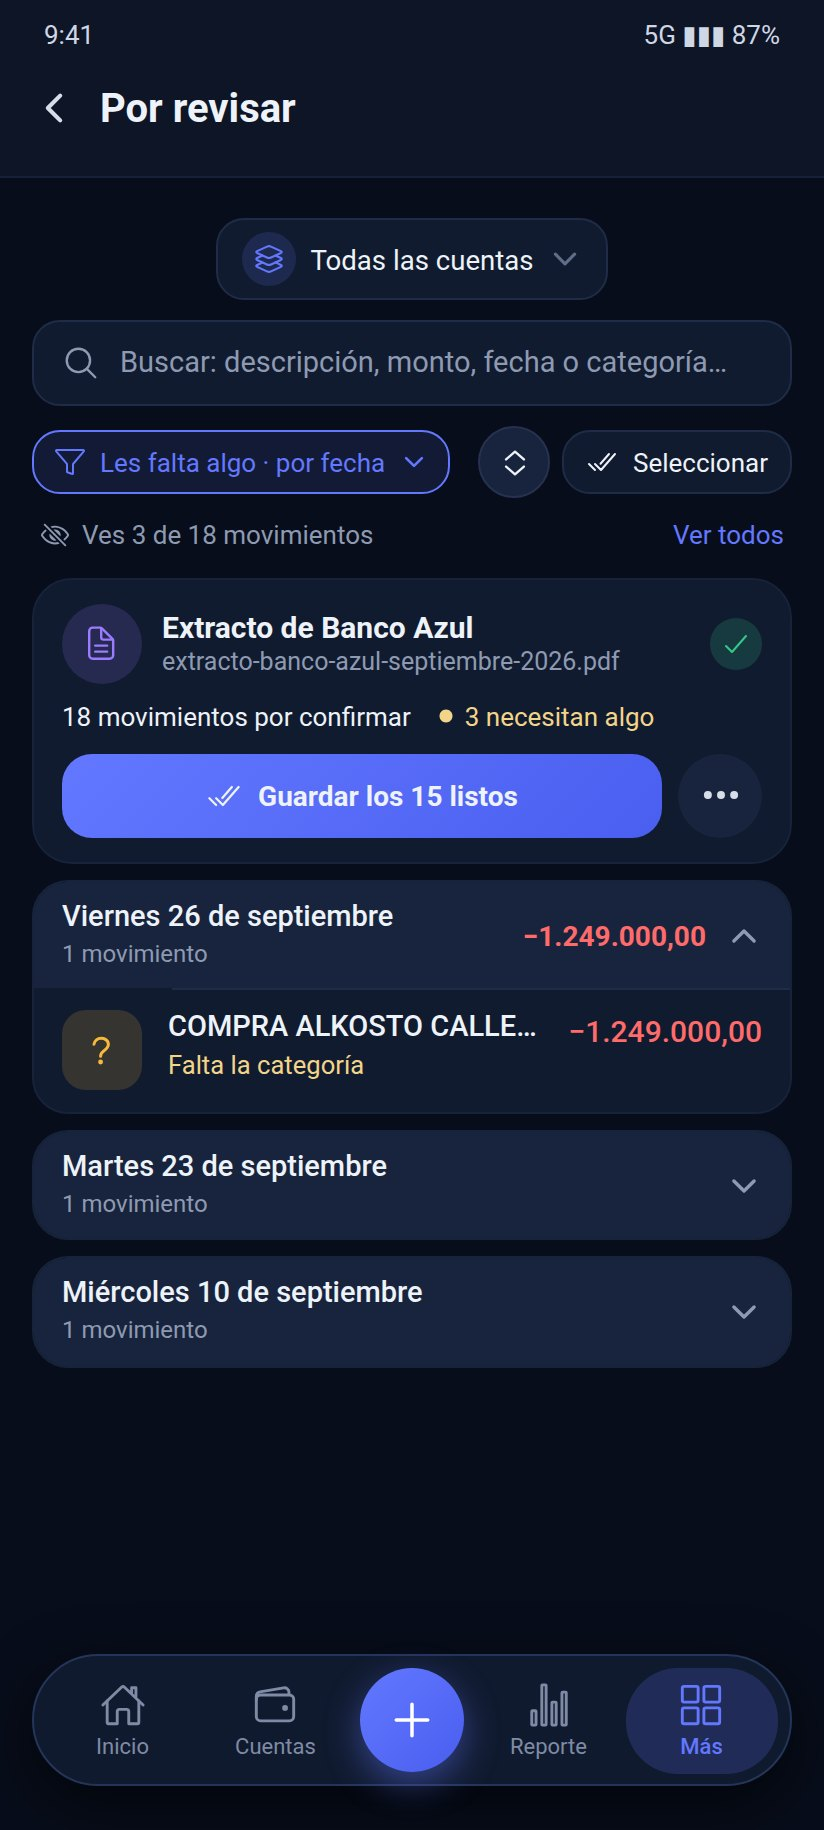
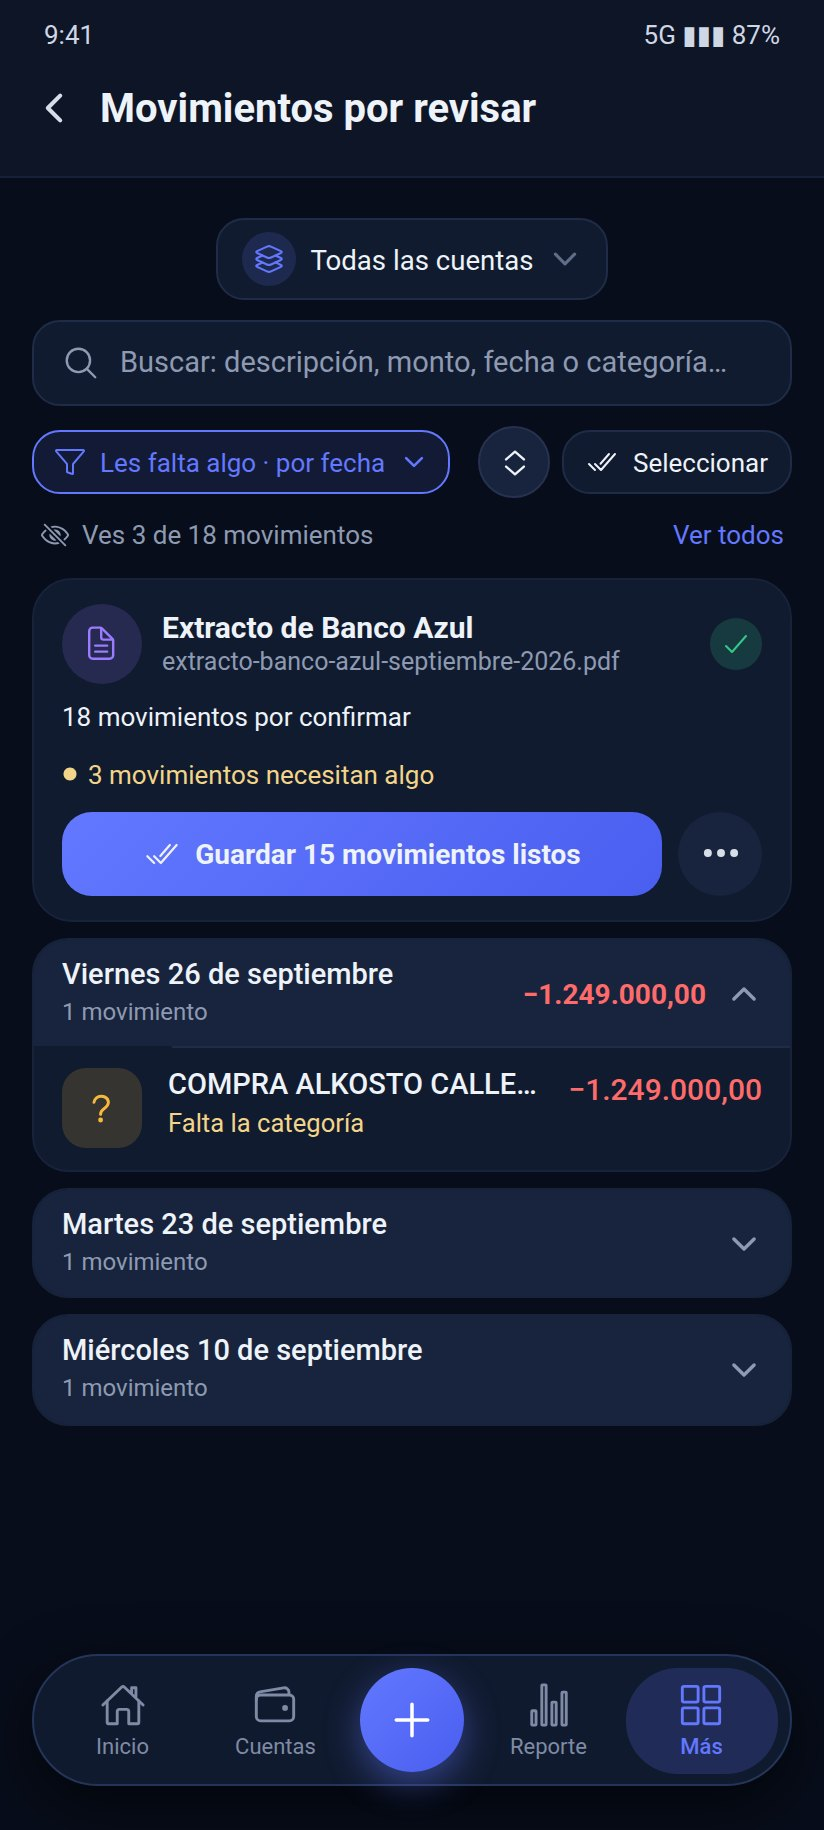
Name every count, put Todas las cuentas first in the viewing lists
Buttons and lines in Por revisar say what they count, and the screen is
Movimientos por revisar. Inicio's and the report's account lists start
with Todas las cuentas (1r, 5t). 6-recorrido-importar shows importing a
statement step by step.

Claude-Session: https://claude.ai/code/session_01QyUqFix1SMdsKVBtd1Wz88

Changed region(s): [[0.0303, 0.3738, 0.9709, 0.7787], [0.1214, 0.0311, 0.6371, 0.0934]]

diff --git a/CLAUDE.md b/CLAUDE.md
@@ -2431,6 +2431,21 @@ refuse:
   mark turns amber with one line, "No cuadra por 45.900,00". "Leí 18
   movimientos" is a short notice that goes by itself.
 
+**And his second look at group 6 (2026-09-28):**
+
+- **Every figure on a button or a line names what it counts**: "Guardar
+  15 movimientos listos", "3 movimientos necesitan algo", "Guardar 7
+  movimientos", and the screen's title is "Movimientos por revisar". On
+  Inicio the donut's last line is "7 categorías más", not "Otras 7".
+- **Every list that chooses which account to LOOK AT starts with "Todas
+  las cuentas"**, the general view, ticked when on: Inicio's header (`1r`,
+  with net worth), the report's chip (`5t`) and Por revisar (`6n`). A list
+  that chooses where a movement comes from or goes to, or whose statement
+  it is, has no "Todas" - a movement and a statement belong to one account
+  (`1k`, `6t`).
+- `6-recorrido-importar.jpg` draws importing step by step: the "+",
+  "¿De qué cuenta es?", the reading, the review.
+
 ### The ideas, by what they would take
 
 | # | Idea | Size | Touches | Status |

diff --git a/docs/mockups/README.md b/docs/mockups/README.md
@@ -13,7 +13,7 @@ agreed"). Files starting with a digit are the current version of their
 group (v4 and later). The "+" sits in the middle of the floating bar from v5, in every file that draws the bar; `b*`, `c*`, `d*` are v3 drafts, kept until their group
 is redone, and superseded by Jose's review of 2026-09-28.
 
-`2s-recorrido-cuentas.jpg` shows the Cuentas tab step by step: Saldos, an account in Inicio, Rendimientos, an account's products.
+`6-recorrido-importar.jpg` shows importing a statement step by step. `2s-recorrido-cuentas.jpg` shows the Cuentas tab step by step: Saldos, an account in Inicio, Rendimientos, an account's products.
 
 Every list of movements is in folding sections (by day or category), only the first open, with the round open-all / close-all button (`1o`, `1p`, `4d2`). Every screen with a long list carries the two arrows (up, down) on the right above the bar, as the app shows them today.
 
